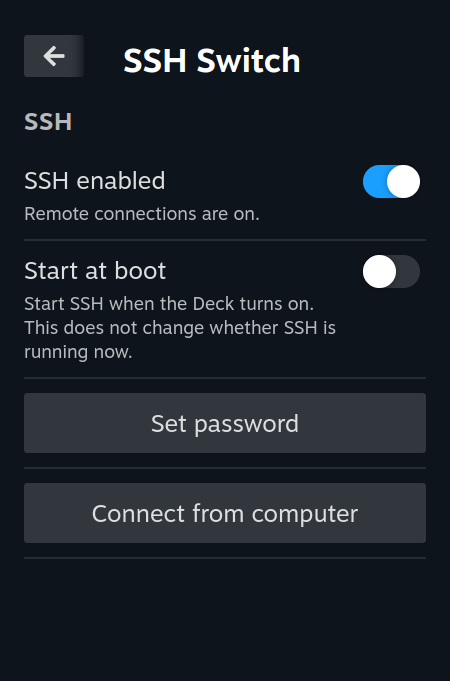
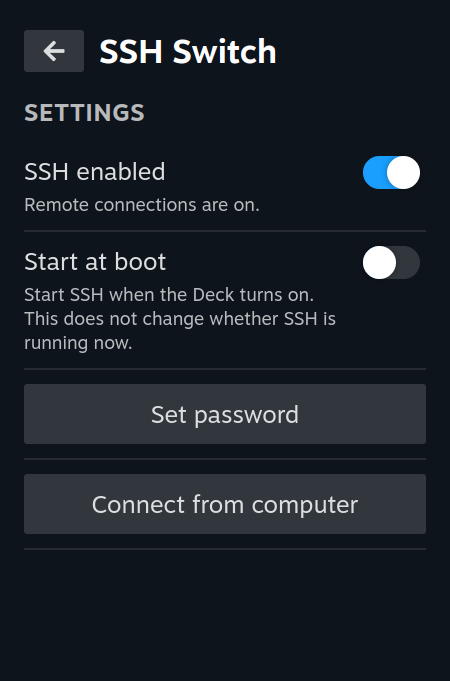
Fix Settings header and simplify status polling

diff --git a/src/index.tsx b/src/index.tsx
@@ -1,5 +1,5 @@
 import { callable, definePlugin } from "@decky/api";
-import { ButtonItem, ConfirmModal, PanelSection, PanelSectionRow, TextField, ToggleField, showModal, staticClasses } from "@decky/ui";
+import { ButtonItem, ConfirmModal, PanelSection, PanelSectionRow, TextField, ToggleField, showModal } from "@decky/ui";
 import { useEffect, useRef, useState } from "react";
 
 interface Status {
@@ -147,42 +147,40 @@ function PasswordDialog({ username, onChanged, closeModal }: PasswordDialogProps
 function Content() {
   const [status, setStatus] = useState<Status | null>(null);
   const [busy, setBusy] = useState(false);
-  const [reading, setReading] = useState(false);
   const [error, setError] = useState("");
   const [statusError, setStatusError] = useState("");
   const [message, setMessage] = useState("");
   const inFlight = useRef(false);
-  const refreshInFlight = useRef(false);
   const revision = useRef(0);
   const mounted = useRef(false);
 
-  async function refresh(showLoading = false) {
-    if (inFlight.current || refreshInFlight.current) return;
-    refreshInFlight.current = true;
-    const startedAtRevision = revision.current;
-    if (showLoading && mounted.current) setReading(true);
-    try {
-      const next = await getStatus();
-      if (mounted.current && revision.current === startedAtRevision) {
-        setStatus((previous) => sameStatus(previous, next) ? previous : next);
-        setStatusError("");
-      }
-    } catch (reason) {
-      if (mounted.current && revision.current === startedAtRevision) {
-        // Keep the last known switch positions while clearly marking them stale.
-        setStatusError(reason instanceof Error ? reason.message : String(reason));
-      }
-    } finally {
-      refreshInFlight.current = false;
-      if (showLoading && mounted.current) setReading(false);
-    }
-  }
-
   useEffect(() => {
+    let active = true;
+    let reading = false;
     mounted.current = true;
-    void refresh(true);
+    async function refresh() {
+      if (inFlight.current || reading) return;
+      reading = true;
+      const startedAtRevision = revision.current;
+      try {
+        const next = await getStatus();
+        if (active && revision.current === startedAtRevision) {
+          setStatus((previous) => sameStatus(previous, next) ? previous : next);
+          setStatusError("");
+        }
+      } catch (reason) {
+        if (active && revision.current === startedAtRevision) {
+          // Retain the last switch positions, but disable them until status recovers.
+          setStatusError(reason instanceof Error ? reason.message : String(reason));
+        }
+      } finally {
+        reading = false;
+      }
+    }
+    void refresh();
     const timer = window.setInterval(() => void refresh(), 5000);
     return () => {
+      active = false;
       mounted.current = false;
       window.clearInterval(timer);
     };
@@ -233,10 +231,11 @@ function Content() {
     />);
   }
 
-  const disabled = busy || reading || !status || !!statusError || status.transitioning;
+  const loading = !status && !statusError;
+  const disabled = busy || !status || !!statusError || status.transitioning;
   return (
     <>
-      <PanelSection title="SSH">
+      <PanelSection title="SETTINGS">
         <PanelSectionRow>
           <ToggleField
             label="SSH enabled"
@@ -256,10 +255,10 @@ function Content() {
           />
         </PanelSectionRow>
         <PanelSectionRow>
-          <ButtonItem layout="below" disabled={busy || reading} onClick={openPasswordDialog}>Set password</ButtonItem>
+          <ButtonItem layout="below" disabled={busy || loading} onClick={openPasswordDialog}>Set password</ButtonItem>
         </PanelSectionRow>
         <PanelSectionRow>
-          <ButtonItem layout="below" disabled={busy || reading} onClick={() => showModal(<ConnectionDialog />)}>Connect from computer</ButtonItem>
+          <ButtonItem layout="below" disabled={busy || loading} onClick={() => showModal(<ConnectionDialog />)}>Connect from computer</ButtonItem>
         </PanelSectionRow>
         {status?.active_state === "failed" && <PanelSectionRow><div role="status">SSH failed to start. Check its service status in Desktop Mode.</div></PanelSectionRow>}
       </PanelSection>
@@ -274,7 +273,6 @@ function Content() {
 
 export default definePlugin(() => ({
   name: "SSH Switch",
-  titleView: <div className={staticClasses.Title}>SSH Switch</div>,
   content: <Content />,
   icon: <svg viewBox="0 0 24 24" fill="none" stroke="currentColor" strokeWidth="2" width="1em" height="1em" aria-hidden="true"><path d="m4 5 6 6-6 6M13 18h7" /></svg>,
 }));

diff --git a/main.py b/main.py
@@ -118,7 +118,7 @@ async def _status():
 async def _change(action):
     code, _, _ = await _run(SYSTEMCTL, "--no-ask-password", action, SERVICE)
     if code != 0:
-        raise RuntimeError(f"Could not {action} SSH. Check 'systemctl status sshd.service' in Desktop Mode, then refresh.")
+        raise RuntimeError(f"Could not {action} SSH. Check 'systemctl status sshd.service' in Desktop Mode.")
 
 
 async def _connection_info():
